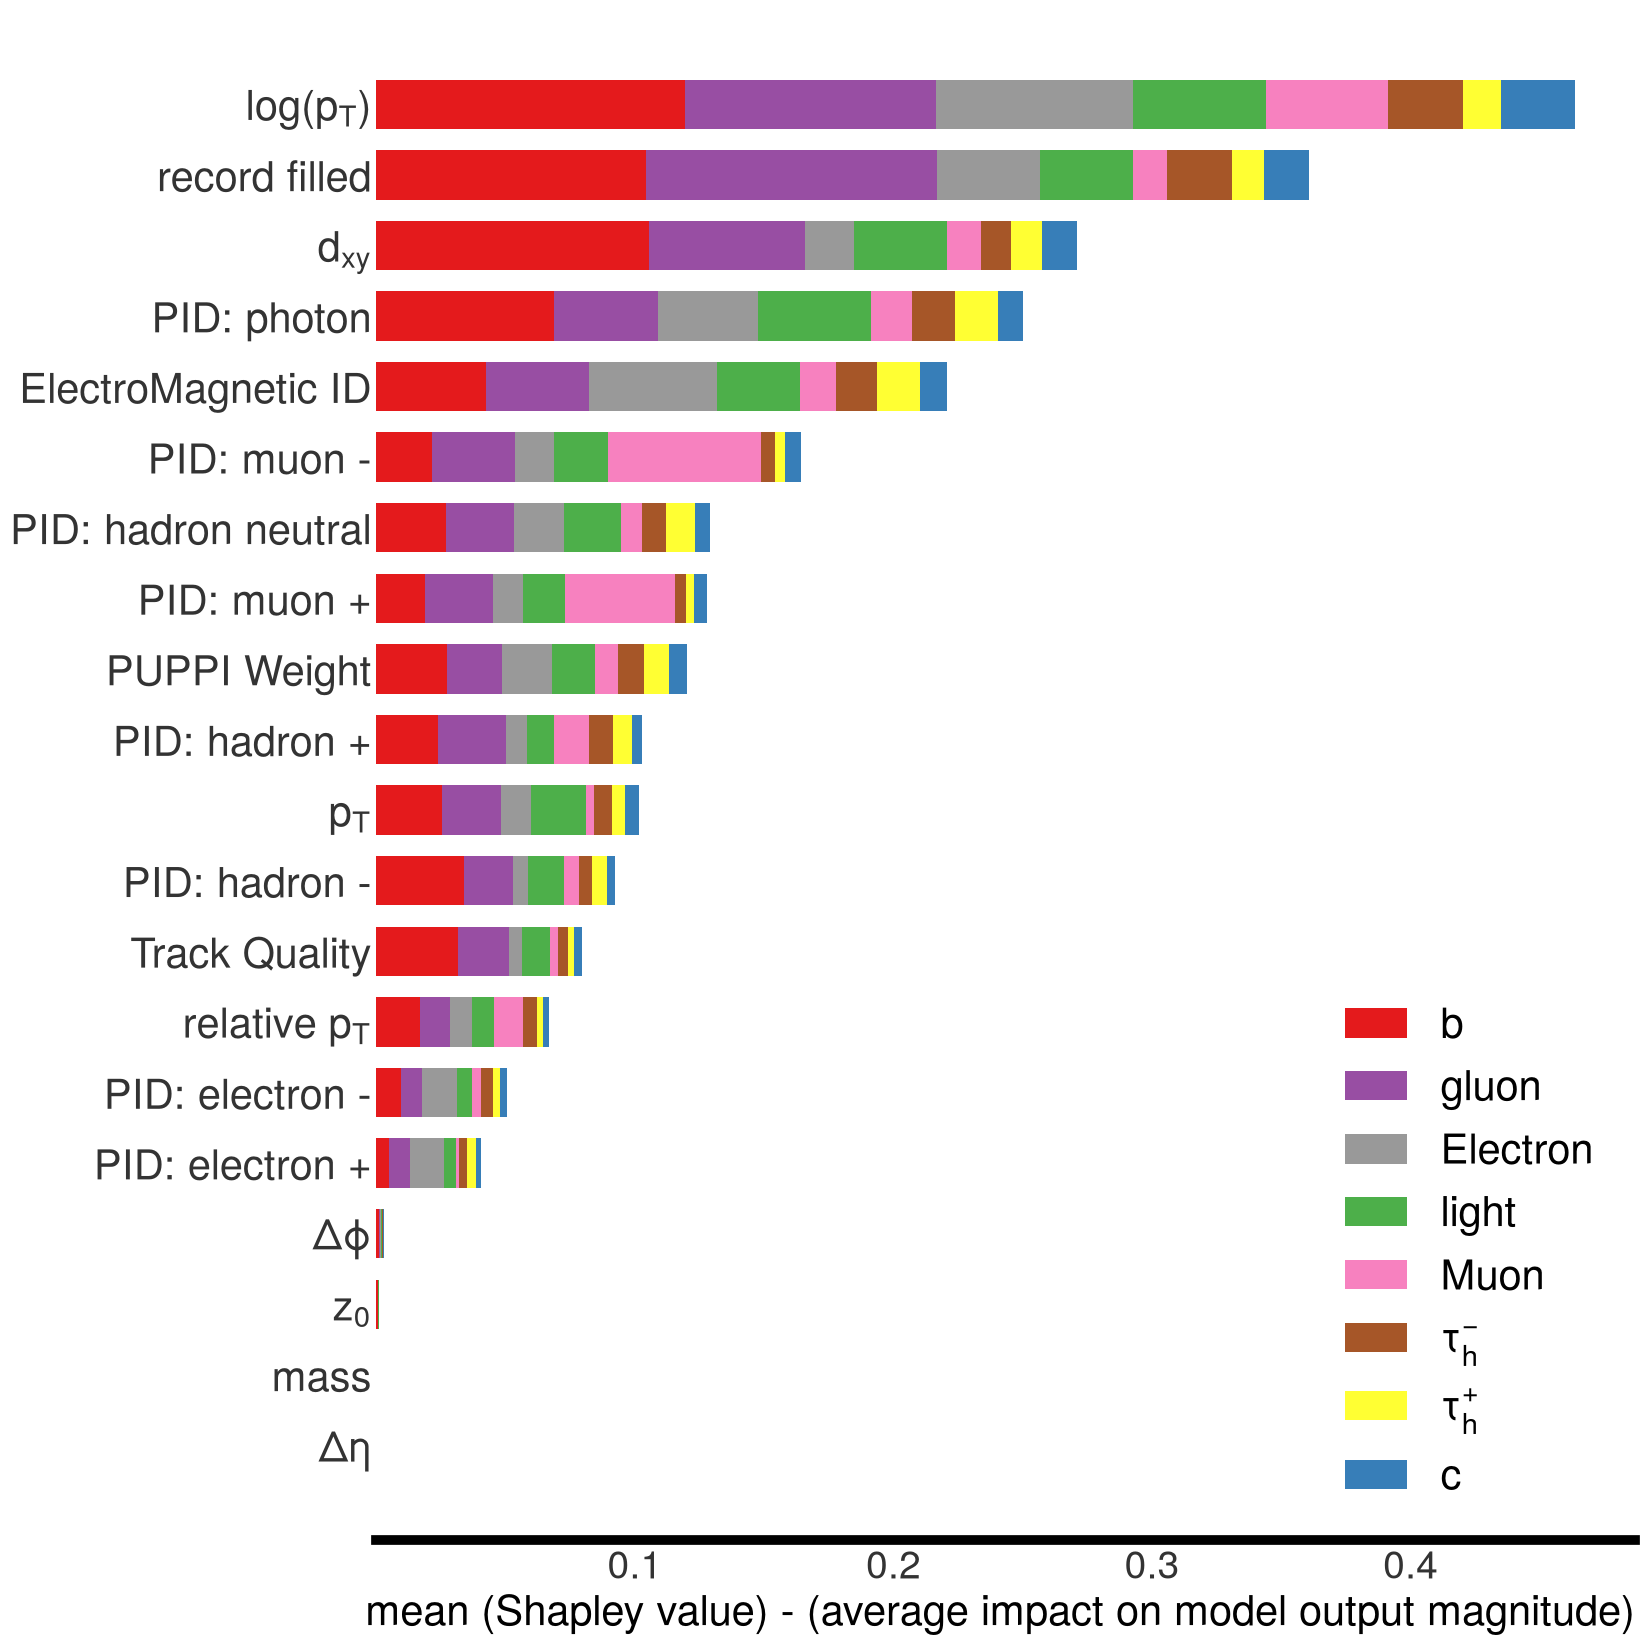
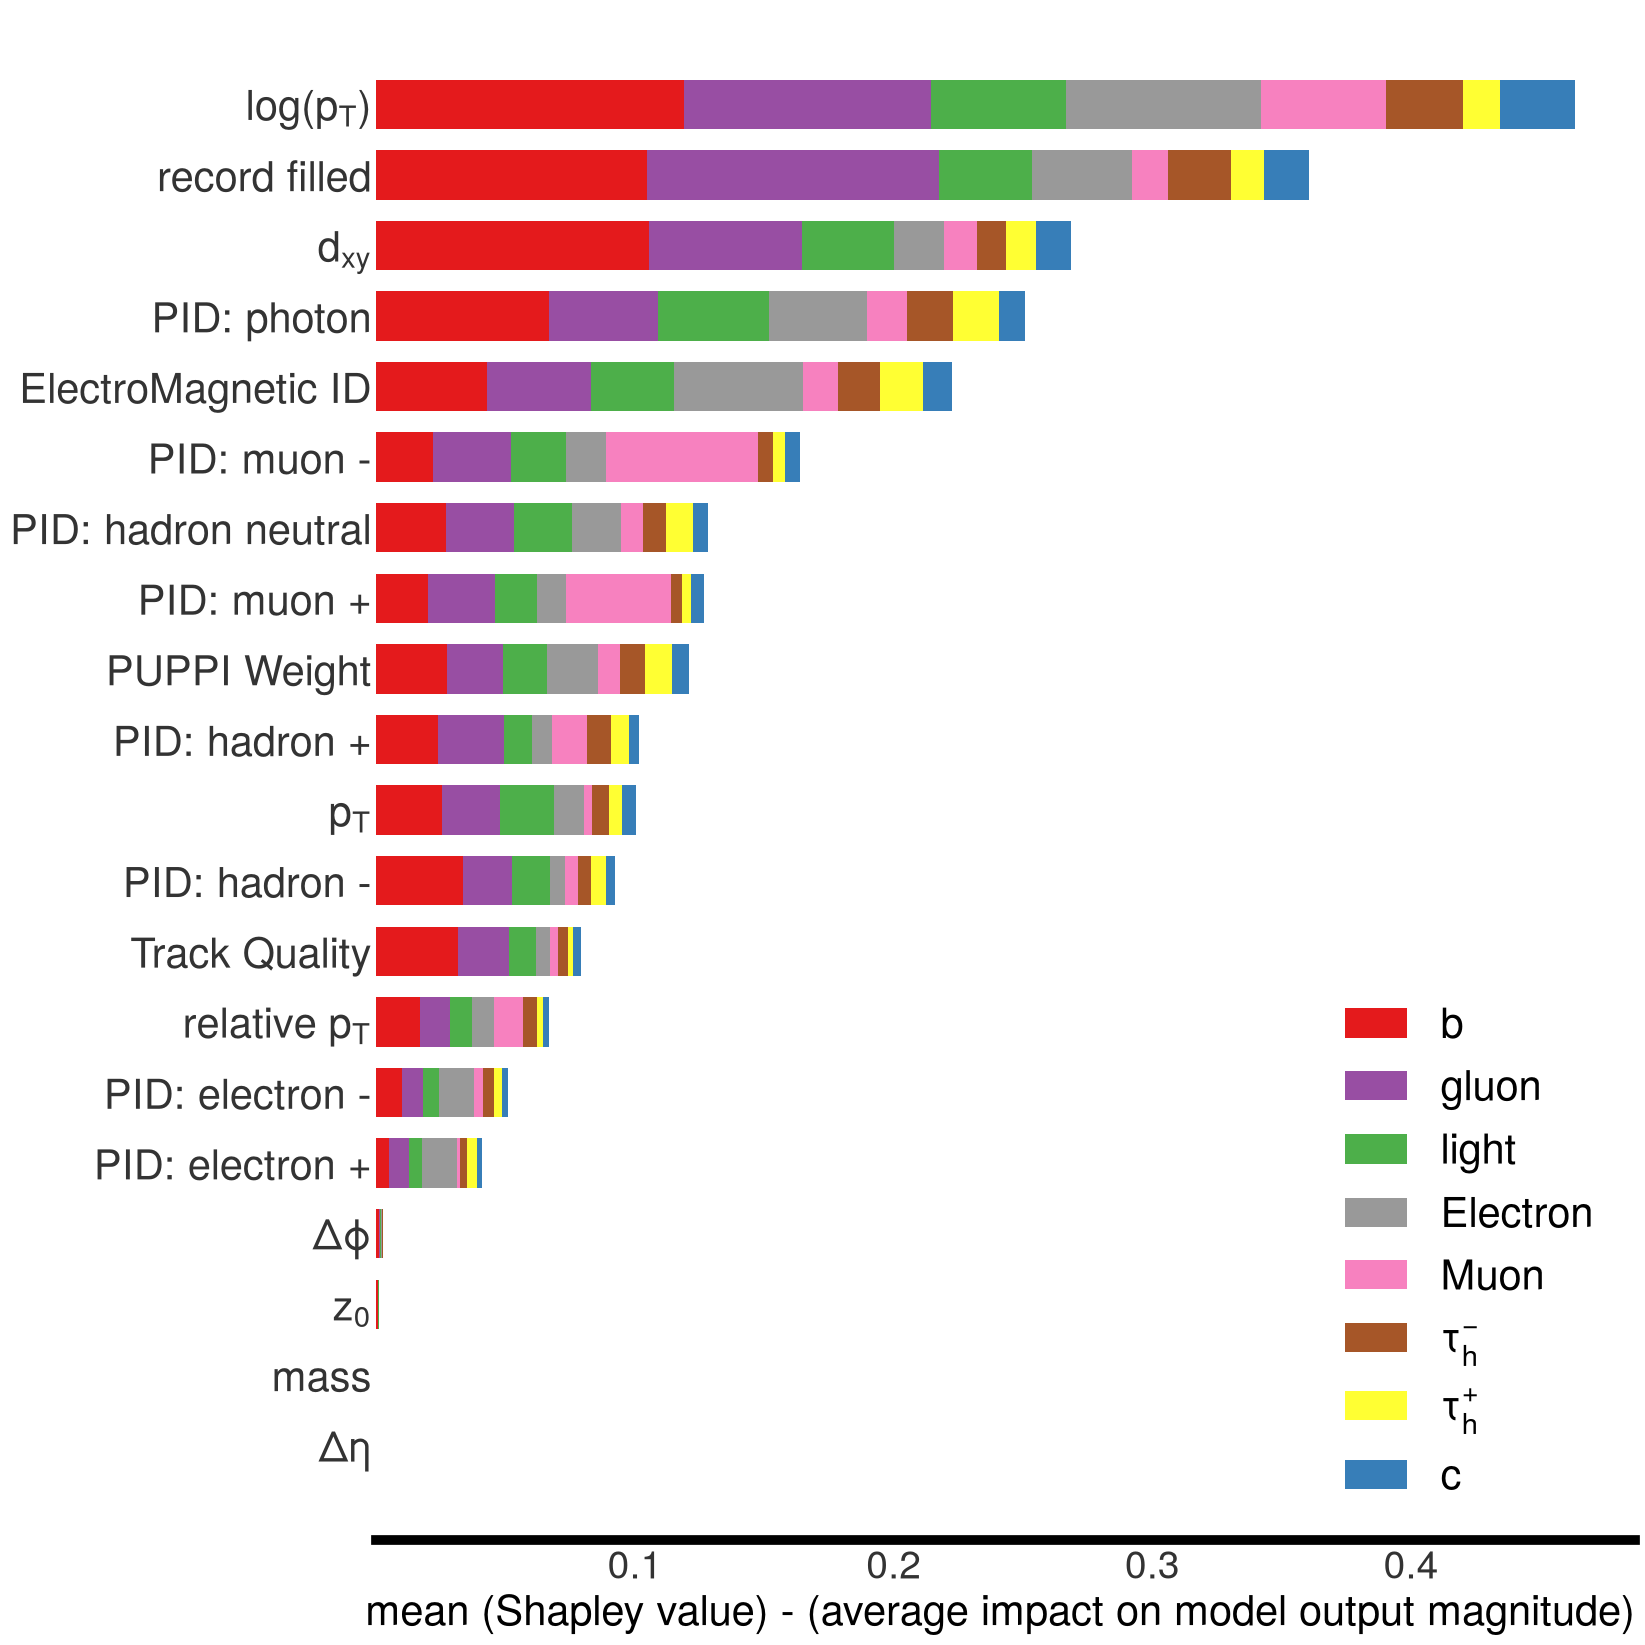
14 Oct - some more test mainly on how shap works and on X_test and dxy

diff --git a/model_output.py b/model_output.py
@@ -1,8 +1,8 @@
 import os, shutil, json
 import numpy as np
 import tensorflow as tf
-from tensorflow.keras.callbacks import EarlyStopping, ReduceLROnPlateau
-from schema import Schema, And, Use, Optional
+#from tensorflow.keras.callbacks import EarlyStopping, ReduceLROnPlateau
+#from schema import Schema, And, Use, Optional
 import shap
 from tensorflow.keras.models import load_model
 from sklearn.metrics import roc_curve, auc
@@ -11,10 +11,10 @@ matplotlib.use('Agg')
 import matplotlib.pyplot as plt
 import mplhep as hep
 import plot.style as style
-import collections
-import keras
-from keras.layers import BatchNormalization,  Activation, AveragePooling1D, Dense, Conv1D, Flatten
-from keras.callbacks import EarlyStopping, ReduceLROnPlateau, ModelCheckpoint
+#import collections
+#import keras
+#from keras.layers import BatchNormalization,  Activation, AveragePooling1D, Dense, Conv1D, Flatten
+#from keras.callbacks import EarlyStopping, ReduceLROnPlateau, ModelCheckpoint
 from sklearn.metrics import confusion_matrix, ConfusionMatrixDisplay
 from mpl_toolkits.axes_grid1 import make_axes_locatable
 
@@ -111,7 +111,6 @@ def shapPlot(shap_values, feature_names, class_names):
     feature_inds = feature_order
     y_pos = np.arange(len(feature_inds))
     left_pos = np.zeros(len(feature_inds))
-
     axis_color="#333333"
     class_inds = np.argsort([-np.abs(shap_values[i]).mean() for i in range(len(shap_values))])
     colormap = matplotlib.colormaps['Set1'].resampled(len(class_names))  # Use 'tab10' with enough colors
@@ -143,17 +142,22 @@ def plot_shaply(model, X_test, class_labels, input_vars, plot_dir):
     labels = list(class_labels.keys())
     model2 = tf.keras.Model(model.input, model.output)
    
-
-    for explainer, name  in [(shap.GradientExplainer(model2, X_test[:1000]), "GradientExplainer"), ]:
+    for explainer, name  in [(shap.GradientExplainer(model2, X_test[:100]), "GradientExplainer"), ]:
         print("... {0}: explainer.shap_values(X)".format(name))
-        shap_values = explainer.shap_values(X_test[:1000])
-        new = np.sum(shap_values, axis = 1)
+        #print(type(X_test[0,0,15]))
+        shap_values = explainer.shap_values(X_test[:100])  # X_test[:1000]
+        new = np.sum(shap_values, axis = 1)                # Sums all top particles of shap values
+        # 15 is for dxy
+        # print('shap values',shap_values.shape)
+        # print('new',new.shape)
+        # print('new',type(new))
         print("... shap summary_plot classification")
         plt.clf()
         new = np.transpose(new, (2,0,1))
         shapPlot(new, input_vars, labels)
-        plt.savefig(plot_dir+"/shap_summary_class.pdf",bbox_inches='tight')
-        plt.savefig(plot_dir+"/shap_summary_class.png",bbox_inches='tight')
+        #plt.savefig(plot_dir+"/shap_summary_class.pdf",bbox_inches='tight')
+        #plt.savefig(plot_dir+"/shap_summary_class.png",bbox_inches='tight')
+        plt.savefig(plot_dir+"/shap_test",bbox_inches='tight')
 
 #creating a directory to save the plots
 plot_dir = os.path.join("output", "plots/training")
@@ -169,16 +173,17 @@ ROC_dict = {class_label : 0 for class_label in class_labels}
 #load test data
 X_test = np.load(f"training_data_CMS/X_test.npy")
 y_test = np.load(f"training_data_CMS/y_test.npy")
-
-#load saved model
-model = load_model(f"output/model/saved_model.h5")
-model_outputs = model.predict(X_test)
-y_pred = model_outputs
- 
-ROC_dict = ROC(y_pred, y_test, class_labels, plot_dir,ROC_dict)
-confusion(y_pred, y_test, class_labels, plot_dir)
-plot_shaply(model, X_test, class_labels, input_vars, plot_dir)
-print('done!')
+print(type(X_test[1,1,15]))
+print(X_test[:,1,15])
+# #load saved model
+# model = load_model(f"output/model/saved_model.h5")
+# model_outputs = model.predict(X_test)
+# y_pred = model_outputs
+# print('model loaded')
+# #ROC_dict = ROC(y_pred, y_test, class_labels, plot_dir,ROC_dict)
+# #confusion(y_pred, y_test, class_labels, plot_dir)
+# plot_shaply(model, X_test, class_labels, input_vars, plot_dir)
+# print('done!')
 
 # To run code on pixi
 # /software/mm24721/jet_tagger_BSc/.pixi/envs/default/bin/python model_output.py

diff --git a/test.py b/test.py
@@ -1,16 +1,23 @@
 
 import numpy as np
-
+import uproot
+import awkward as ak
 # Load the array
 file="training_data_CMS/y_test.npy"
 data = np.load(file, mmap_mode="r")
+data = uproot.open("training_data_CMS/data_chunk_457.root")
+print(data.keys())
 
+# Extract a tree directly into a Pandas DataFrame
+tree = data["data;1"]
+df = tree.arrays(library="ak")
+print(df.shape)
 # Inspect metadata and data
-print(file)
-print("Shape:", data.shape)
-print("Data Type:", data.dtype)
-print("Is Fortran order:", data.flags["F_CONTIGUOUS"])
-first_slice = data[0]
+# print(file)
+# print("Shape:", data.shape)
+# print("Data Type:", data.dtype)
+# print("Is Fortran order:", data.flags["F_CONTIGUOUS"])
+# first_slice = data[0]
 #print("first_slice =", repr(first_slice))
 
 #X_train = np.load('training_data_CMS/X_train.npy')

diff --git a/NOTES.md b/NOTES.md
@@ -1,25 +1,30 @@
-    The model tries to assign a particle to one out of 8 labels
-        
+The model tries to assign a particle to one out of 8 labels
     
-    20 input variables  - found in input_vars.json variables.json metadata.json 
-                        - were plot in shap_summary_class as y-axis
-    8 output variables  - correspond to a particle type estimated by the model
-                        - found in class_label.json variables.json metadata.json
-                        - were plot everywhere except for the loss history plot
 
-        training_data_CMS/X_train.npy
-        Shape: (14679587, 16, 20)  <--14679587 samples
-        Data Type: float64,
+20 input variables  - found in input_vars.json variables.json metadata.json 
+                    - were plot in shap_summary_class as y-axis
+8 output variables  - correspond to a particle type estimated by the model
+                    - found in class_label.json variables.json metadata.json
+                    - were plot everywhere except for the loss history plot
+16 most important particles - events or jets with <16 particles are padded with zeros
+                            - events or jets with >16 particles are truncated to 16
 
-        training_data_CMS/X_test.npy
-        Shape: (1631066, 16, 20)
-        Data Type: float64
+    training_data_CMS/X_train.npy
+    Shape: (14679587, 16, 20)  <--14679587 samples
+    Data Type: float64,
 
-        training_data_CMS/y_train.npy
-        Shape: (14679587, 8)
-        Data Type: float64
+    training_data_CMS/X_test.npy
+    Shape: (1631066, 16, 20)
+    Data Type: float64
 
-        training_data_CMS/y_test.npy
-        Shape: (1631066, 8)
-        Data Type: float64
+    training_data_CMS/y_train.npy
+    Shape: (14679587, 8)
+    Data Type: float64
+
+    training_data_CMS/y_test.npy
+    Shape: (1631066, 8)
+    Data Type: float64
+
+    data_chunk_457.root
+    Shape: (55287, 16, 20)
         
